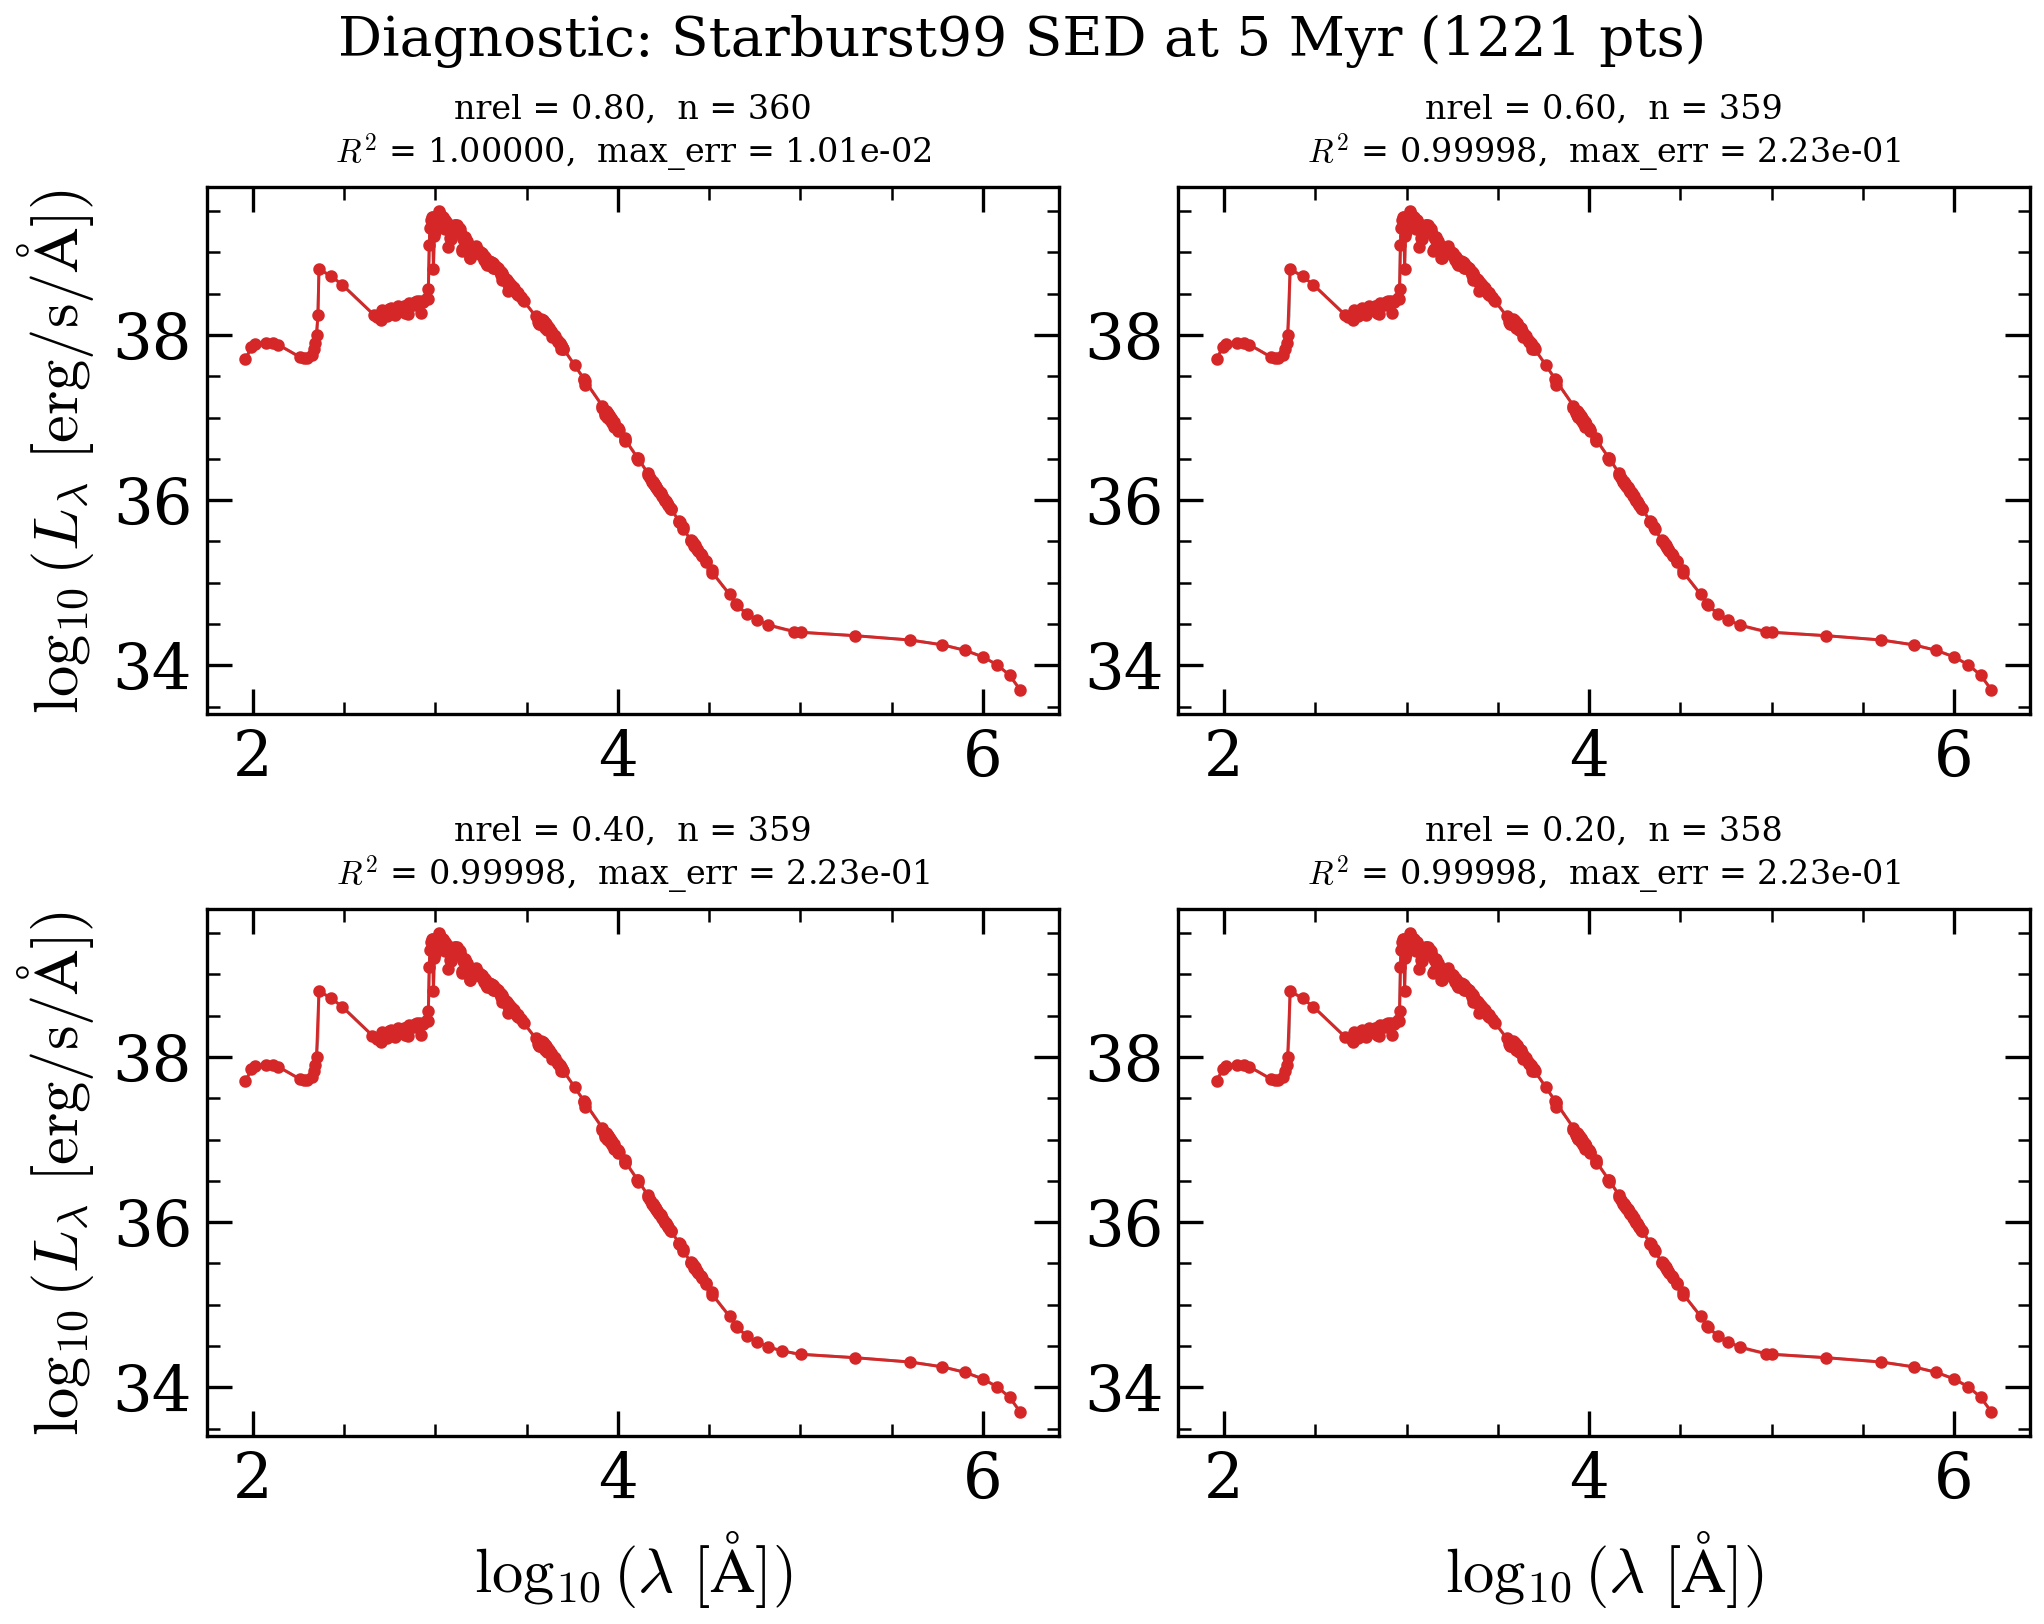
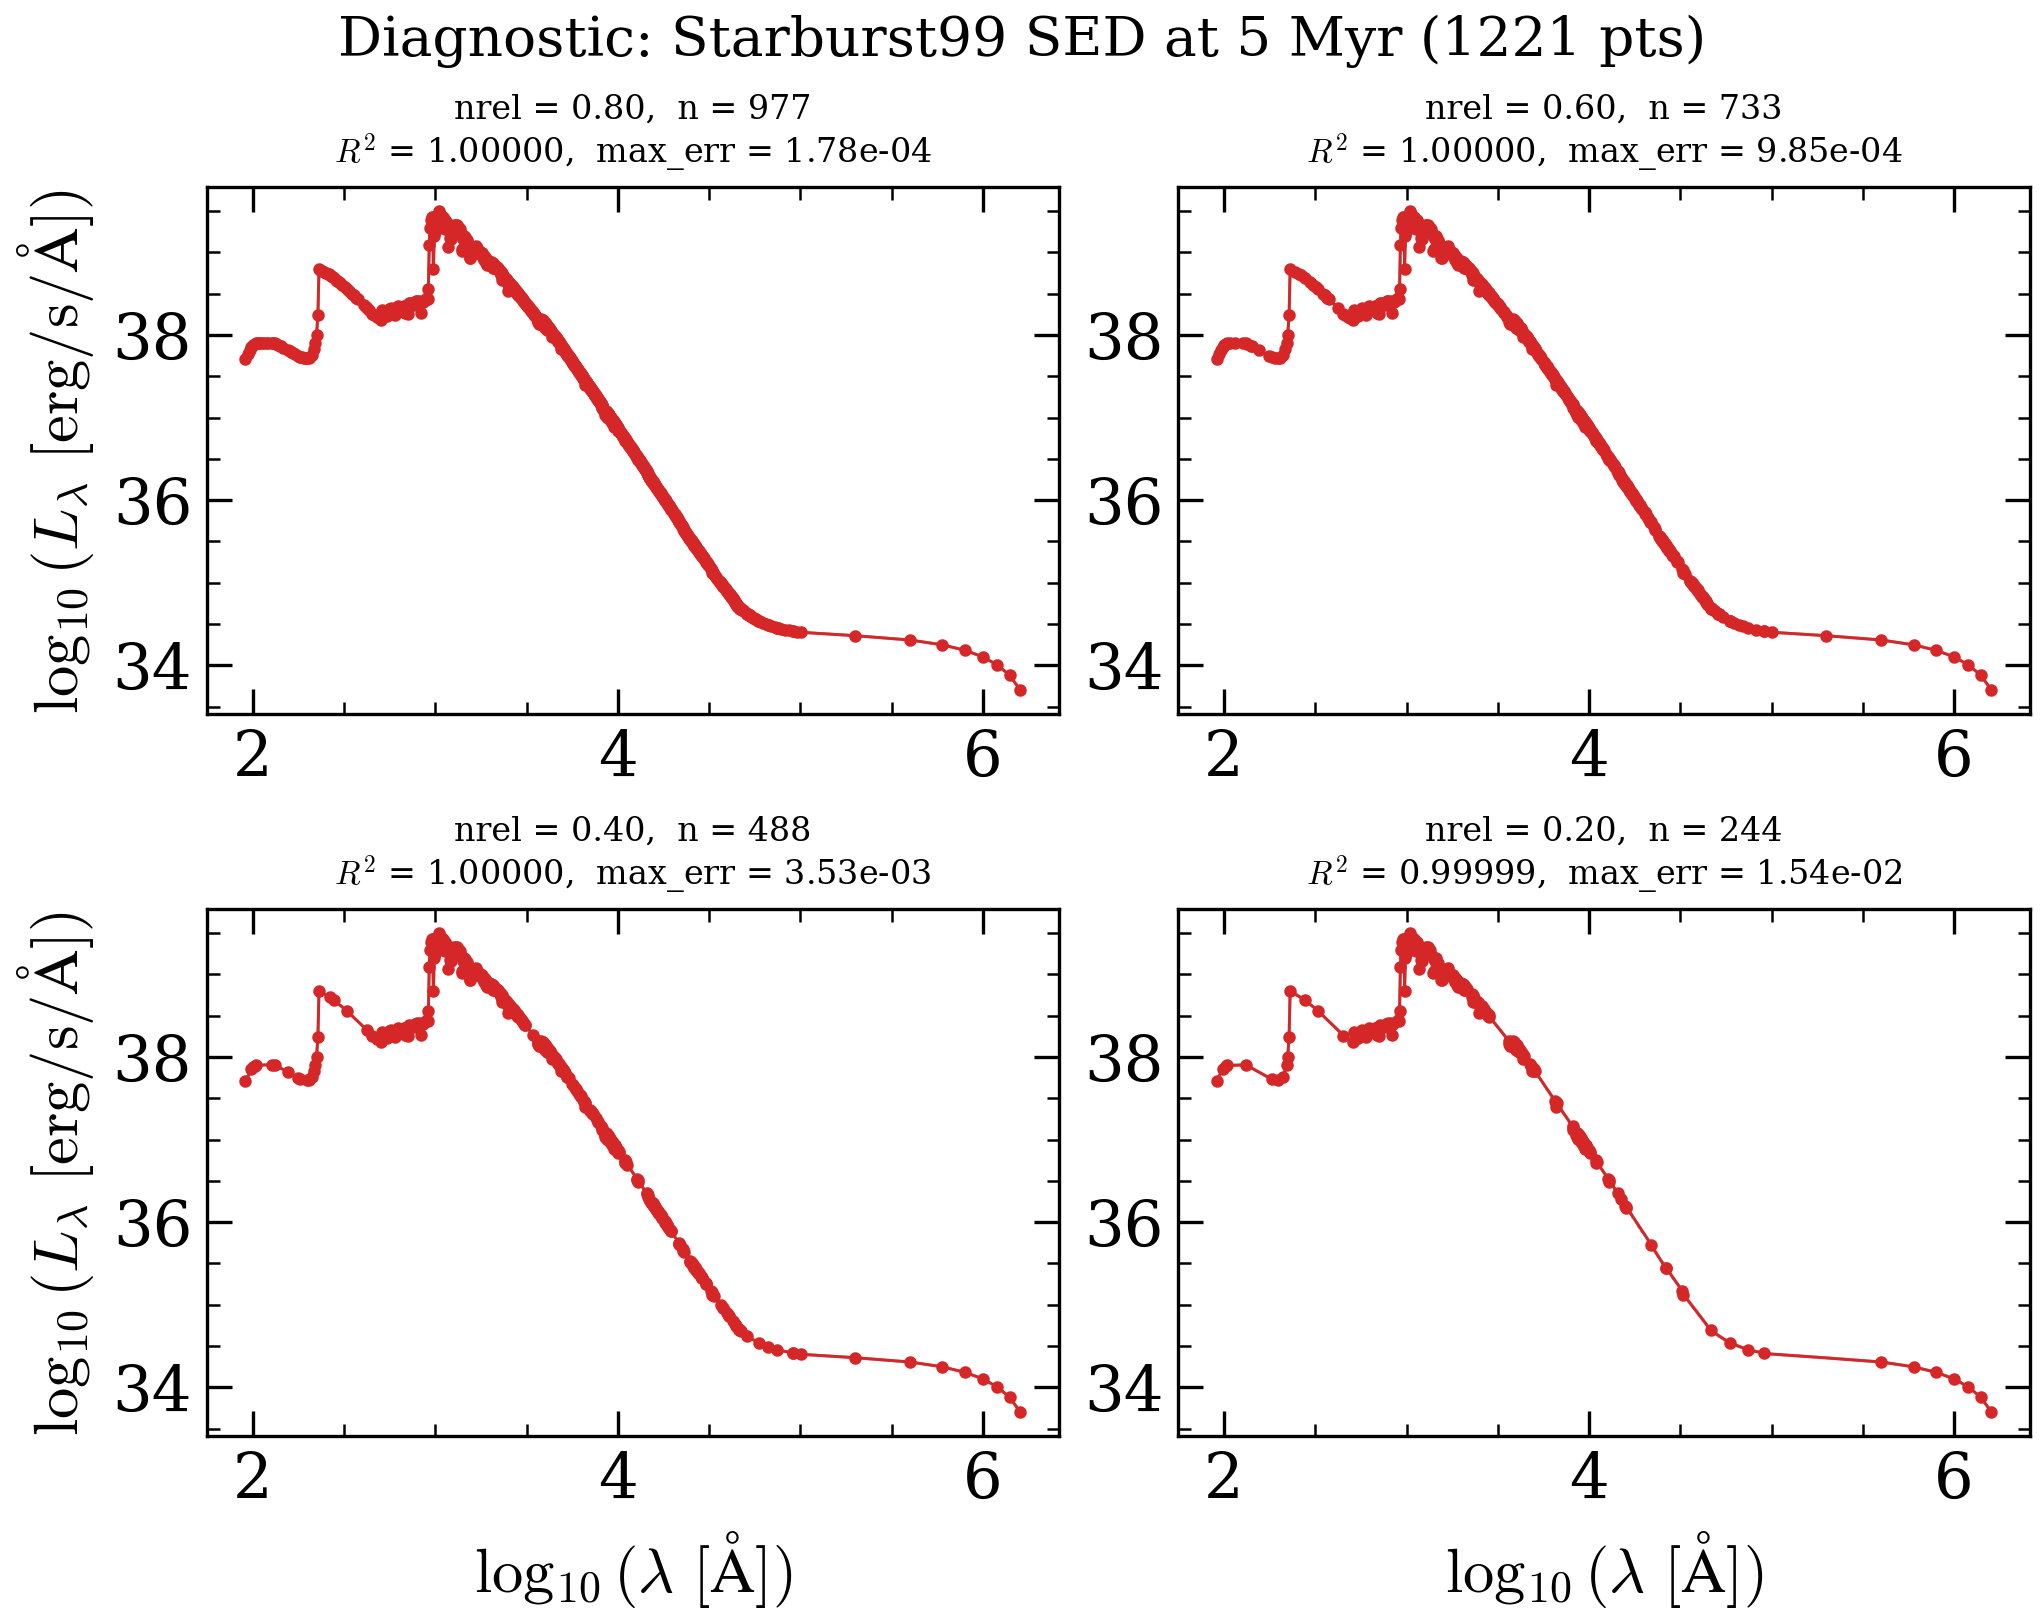
Make diagnostic keep exactly nrel*n_orig points by importance
The previous diagnostic mapped nrel to _simplify's nmin, but the output
count saturates (feature pool + collinearity prune), so every nrel
collapsed to ~the same point count. Switch the sweep to keep exactly
round(nrel*n_orig) points, ranked by a new _importance_order() greedy
worst-error refinement (the same mechanism --max-err uses). Larger nrel
now over-populates the curve with progressively less important points and
the max_err / R^2 columns show a real budget-vs-accuracy progression.

Drop the now-unused grad_inc / dedup_tol params from _simplify_diagnostic
and update the README section and example figure to match.

https://claude.ai/code/session_01G5aMYsok1f6w3LkkxdQ5gs

diff --git a/simplify.py b/simplify.py
@@ -1161,13 +1161,75 @@ def _simplify_plot(
             plt.close(fig)
 
 
+def _importance_order(
+    x: np.ndarray, y_work: np.ndarray, n_max: int
+) -> np.ndarray:
+    """
+    Rank sample indices by piecewise-linear reconstruction importance.
+
+    Greedy top-down refinement: start from the two endpoints and
+    repeatedly append the index whose current linear-interpolation error
+    is largest.  A length-``k`` prefix of the result is therefore the
+    ``k`` points a connect-the-dots reconstruction needs most — sharp
+    spikes and bends are grabbed first, redundant collinear samples last.
+    This is the same worst-error mechanism :func:`_simplify` uses for its
+    ``max_err`` insertions, so a prefix of length ``k`` is a principled
+    answer to "which ``k`` points matter most?".
+
+    Parameters
+    ----------
+    x : np.ndarray
+        Sorted (non-decreasing) x-values.
+    y_work : np.ndarray
+        Working-space y-values (``log10`` already applied when relevant).
+    n_max : int
+        Maximum prefix length to build (clamped to ``x.size``).
+
+    Returns
+    -------
+    np.ndarray
+        Index array of length ``min(n_max, x.size)``; element ``i`` is the
+        ``i``-th most important sample (the two endpoints come first).
+    """
+    n = x.size
+    n_max = min(int(n_max), n)
+    if n_max <= 0:
+        return np.empty(0, dtype=np.int64)
+
+    in_set = np.zeros(n, dtype=bool)
+    order = []
+    for seed in (0, n - 1):
+        if not in_set[seed] and len(order) < n_max:
+            in_set[seed] = True
+            order.append(seed)
+
+    # Each pass rebuilds the interpolant from the current set and adds the
+    # single worst-error sample.  ``np.flatnonzero`` returns the kept
+    # indices already sorted, so the interpolation x-grid stays monotone.
+    while len(order) < n_max:
+        sel = np.flatnonzero(in_set)
+        y_interp = np.interp(x, x[sel], y_work[sel])
+        err = np.abs(y_work - y_interp)
+        err[in_set] = -1.0
+        worst = int(np.argmax(err))
+        if err[worst] <= 0.0:
+            break                       # remaining points add no information
+        in_set[worst] = True
+        order.append(worst)
+
+    # If the greedy loop stopped early (curve already reproduced exactly),
+    # pad with the leftover indices so the requested count is still met.
+    if len(order) < n_max:
+        order.extend(np.flatnonzero(~in_set)[: n_max - len(order)].tolist())
+
+    return np.asarray(order, dtype=np.int64)
+
+
 def _simplify_diagnostic(
     x_orig: Union[np.ndarray, Sequence[float]],
     y_orig: Union[np.ndarray, Sequence[float]],
     nrels: Sequence[float] = (0.8, 0.6, 0.4, 0.2),
-    grad_inc: float = 1.0,
     log_y: Union[bool, str] = "auto",
-    dedup_tol: float = 1e-6,
     title: str = "Simplification diagnostic",
     plot: bool = False,
     save_path: Union[str, None] = None,
@@ -1176,17 +1238,24 @@ def _simplify_diagnostic(
     ylabel: str = r"$y$",
 ) -> list:
     """
-    Sweep a curve over several target output sizes and report fidelity.
+    Sweep a curve over several output sizes and report fidelity vs. size.
 
     A convenience tool for users who don't know what ``nmin`` or
     ``max_err`` to pass.  For each *relative* output size
-    ``nrel = n_output / n_original`` in ``nrels`` it runs :func:`_simplify`
-    with ``nmin = round(nrel * n_original)`` and tabulates the achieved
-    point count, worst-case error, and R² so the trade-off between size
-    and accuracy is visible at a glance.  The reported ``max_err`` is the
-    value you would pass to ``--max-err`` to *guarantee* that fidelity —
-    it is measured in the same y-space the pipeline optimised (log10-y
-    when ``log_y`` activates, linear otherwise).
+    ``nrel = n_output / n_original`` in ``nrels`` it keeps **exactly**
+    ``round(nrel * n_original)`` points — the most important ones, ranked
+    by :func:`_importance_order` — and tabulates the resulting worst-case
+    error and R² so the trade-off between size and accuracy is visible at
+    a glance.  Larger ``nrel`` therefore over-populates the curve with
+    progressively less important points; smaller ``nrel`` keeps only the
+    sharpest features.
+
+    Points are ranked by greedy worst-error refinement, the same
+    mechanism :func:`_simplify` uses for its ``max_err`` insertions, so
+    the tabulated ``max_err`` is a direct guide to the ``--max-err`` value
+    needed for a given fidelity.  It is reported in the same y-space the
+    pipeline optimises (log10-y when ``log_y`` activates, linear
+    otherwise), so the number drops straight into ``--max-err``.
 
     Parameters
     ----------
@@ -1194,13 +1263,12 @@ def _simplify_diagnostic(
         Original (full-resolution) curve.
     nrels : sequence of float, optional
         Target relative output sizes in ``(0, 1]``.  Default
-        ``(0.8, 0.6, 0.4, 0.2)``.  Note the *achieved* point count can
-        differ from the target — the feature pool, the ``nmin >= 100``
-        floor, and the collinearity prune all bound the result, so a
-        curve may saturate at a point count it cannot drop below without
-        losing fidelity.
-    grad_inc, log_y, dedup_tol
-        Forwarded to :func:`_simplify` for every sweep point.
+        ``(0.8, 0.6, 0.4, 0.2)``.  The achieved point count equals
+        ``round(nrel * n_original)`` exactly (clamped to ``[2, n_orig]``).
+    log_y : bool or "auto", optional
+        Selects the y-space the ranking and the reported metrics use.
+        ``"auto"`` (default) switches to log10-y when every ``y > 0`` and
+        the dynamic range exceeds two decades, matching :func:`_simplify`.
     title : str, optional
         Heading for the table and the grid plot.
     plot : bool, optional
@@ -1218,7 +1286,7 @@ def _simplify_diagnostic(
     Returns
     -------
     rows : list of dict
-        One dict per ``nrel`` with keys ``nrel``, ``nmin``, ``n_out``,
+        One dict per ``nrel`` with keys ``nrel``, ``n_out``,
         ``compression``, ``max_err``, ``r_squared`` (the last two in the
         working y-space), plus the full ``metrics`` dict and the
         ``x_simp`` / ``y_simp`` arrays for that level.
@@ -1231,6 +1299,12 @@ def _simplify_diagnostic(
     """
     x_o = np.asarray(x_orig, dtype=float)
     y_o = np.asarray(y_orig, dtype=float)
+
+    # Sort by x so the piecewise-linear interpolation is well defined.
+    if x_o.size > 1 and not np.all(np.diff(x_o) >= 0):
+        order = np.argsort(x_o, kind="stable")
+        x_o = x_o[order]
+        y_o = y_o[order]
     n_orig = x_o.size
 
     nrels = [float(r) for r in nrels]
@@ -1239,19 +1313,25 @@ def _simplify_diagnostic(
     if any(r <= 0.0 or r > 1.0 for r in nrels):
         raise ValueError(f"every nrel must lie in (0, 1]; got {nrels}")
 
-    # Pick the y-space the metrics should be reported in so that the
-    # tabulated max_err matches what ``--max-err`` expects (the pipeline
-    # bounds the error in log10-y space when log_y is active).
+    # Pick the y-space the ranking and metrics use so that the tabulated
+    # max_err matches what ``--max-err`` expects (the pipeline bounds the
+    # error in log10-y space when log_y is active).
     use_log = _auto_log_y(y_o, log_y)
     y_space = "log10-y (dex)" if use_log else "linear-y"
+    y_work = np.log10(y_o) if use_log else y_o
+
+    # Build one importance ranking up to the largest target, then a prefix
+    # of it gives the exact point set for every (smaller) nrel.
+    targets = {
+        r: max(2, min(n_orig, int(round(r * n_orig)))) for r in nrels
+    }
+    full_order = _importance_order(x_o, y_work, max(targets.values()))
 
     rows = []
     for nrel in nrels:
-        nmin = max(1, int(round(nrel * n_orig)))
-        x_s, y_s = _simplify(
-            x_o, y_o, nmin=nmin, grad_inc=grad_inc,
-            warn_below_r2=None, log_y=log_y, dedup_tol=dedup_tol,
-        )
+        n_target = targets[nrel]
+        idx = np.sort(full_order[:n_target])
+        x_s, y_s = x_o[idx], y_o[idx]
         m = _simplify_error(x_o, y_o, x_s, y_s)
         if use_log and not np.isnan(m["log_r_squared"]):
             max_err = m["log_max_dex_err"]
@@ -1261,7 +1341,6 @@ def _simplify_diagnostic(
             r2 = m["r_squared"]
         rows.append({
             "nrel": nrel,
-            "nmin": nmin,
             "n_out": m["n_simp"],
             "compression": m["compression"],
             "max_err": max_err,
@@ -2167,8 +2246,7 @@ def _simplify_cli():
         else:
             nrels = (0.8, 0.6, 0.4, 0.2)
         _simplify_diagnostic(
-            x, y, nrels=nrels, grad_inc=args.grad_inc,
-            log_y=log_y_arg, dedup_tol=args.dedup_tol,
+            x, y, nrels=nrels, log_y=log_y_arg,
             title=f"Diagnostic: {source_label}",
             plot=args.plot, save_path=args.plot_save, show=args.plot,
             **sb99_labels,

diff --git a/README.md b/README.md
@@ -135,9 +135,13 @@ Run `python simplify.py --help` for all options.
 
 Not sure how aggressively to downsample, or what `--max-err` to ask for?
 `--diagnostic` sweeps a handful of *relative* output sizes
-(`nrel = n_out / n_orig`) and prints what each one buys you — the achieved
-point count, the worst-case error, and the R². It runs instead of the
-normal conversion, so no output file is written.
+(`nrel = n_out / n_orig`) and prints what each one buys you — the point
+count, the worst-case error, and the R². Each row keeps **exactly**
+`round(nrel · n_orig)` points: the most important ones first (ranked by
+greedy worst-error refinement — the same mechanism `--max-err` uses), so a
+larger `nrel` over-populates the curve with progressively less important
+points while a smaller one keeps only the sharpest features. It runs
+instead of the normal conversion, so no output file is written.
 
 ```bash
 python simplify.py --randomSB99 --diagnostic
@@ -149,23 +153,20 @@ python simplify.py --randomSB99 --diagnostic
   --------------------------------------------------------
    nrel    n_out   compression      max_err        R^2
   --------------------------------------------------------
-   0.80      360          3.4x    1.009e-02   0.999997
-   0.60      359          3.4x    2.231e-01   0.999980
-   0.40      359          3.4x    2.231e-01   0.999980
-   0.20      358          3.4x    2.231e-01   0.999980
+   0.80      977          1.2x    1.784e-04   1.000000
+   0.60      733          1.7x    9.846e-04   1.000000
+   0.40      488          2.5x    3.534e-03   1.000000
+   0.20      244          5.0x    1.537e-02   0.999993
   --------------------------------------------------------
   max_err = worst-case |error| in linear-y space (pass as --max-err).
 ```
 
-Two things jump out for this SED. First, the achieved `n_out` **saturates
-near 360** no matter how small a target you ask for — the feature pool and
-the collinearity prune won't drop below the points the curve genuinely
-needs, so chasing `nrel = 0.2` buys nothing over `0.4`. Second, the
-`max_err` column tells you exactly what to pass to `--max-err`: the default
-360-point result already leaves a 0.01 dex worst-case error, but the moment
-the budget tightens the worst case jumps to 0.22 dex at the sharp UV/Balmer
-feature — so if you care about that spike, pass `--max-err 0.05` rather than
-trusting the global R² (which stays at 0.9999 throughout).
+Read it as a budget-vs-accuracy curve: 20 % of the points (244) already
+nails this SED to a 0.015 dex worst-case error, and every extra slice of
+budget shaves the worst case down further (0.0035 dex at 40 %, 0.0002 at
+80 %). The `max_err` column is the direct guide to `--max-err`: if you can
+live with ~0.015 dex (≈ 3.5 %) error, `nrel = 0.2` is plenty; if you need
+0.001 dex, you'll want closer to `nrel = 0.6`.
 
 The reported `max_err` and `R^2` are always in the y-space the pipeline
 optimised — **dex when `log_y` is active**, linear otherwise — so the